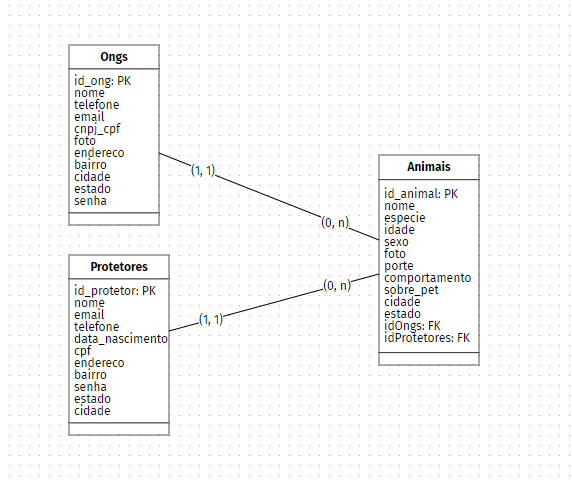
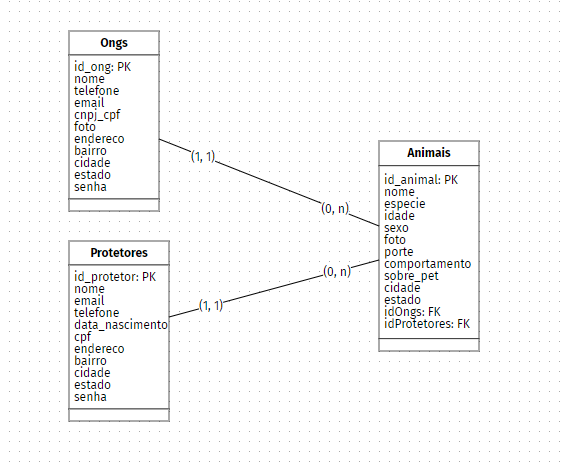
atualizacoes da documentacao do banco de dados concluida
novo banco de dados, fotos mer e der atualizadas e readme.md completo

Changed region(s): [[0.121, 0.0606, 0.8772, 0.7879], [0.121, 0.5152, 0.4235, 0.9394], [0.4537, 0.6061, 0.5445, 0.6364]]

diff --git a/doc/README.md b/doc/README.md
@@ -3,10 +3,10 @@
 Banco de dados - adotapet
  Tabelas: 
      * ongs: essa tabela recebe informações da tela de cadastro e exibe na tela de abrigos.
-     (Id_ong, nome, telefone, email, cnpj_cpf, foto, endereco, bairro, cidade, estado, senha)
+     (id_ong, nome, telefone, email, cnpj_cpf, foto, endereco, bairro, cidade, estado, senha)
 
      * animais: essa tabela recebe informações do formulario e exibe na homepage.
-     (id_animal, nome, especie, idade, sexo, foto, porte, comportamento, sobre_pet, cidade, estado)
+     (id_animal, nome, especie, idade, sexo, foto, porte, comportamento, sobre_pet, cidade, estado, id_ong, id_protetor)
 
-     * protetores: essa tabela recebe informações da tela de cadastro e exibe...
-     ()
+     * protetores: essa tabela recebe informações da tela de cadastro
+     (id_protetor, nome, email, telefone, data_nascimento, cpf, endereco, bairro, cidade, estado, senha)
